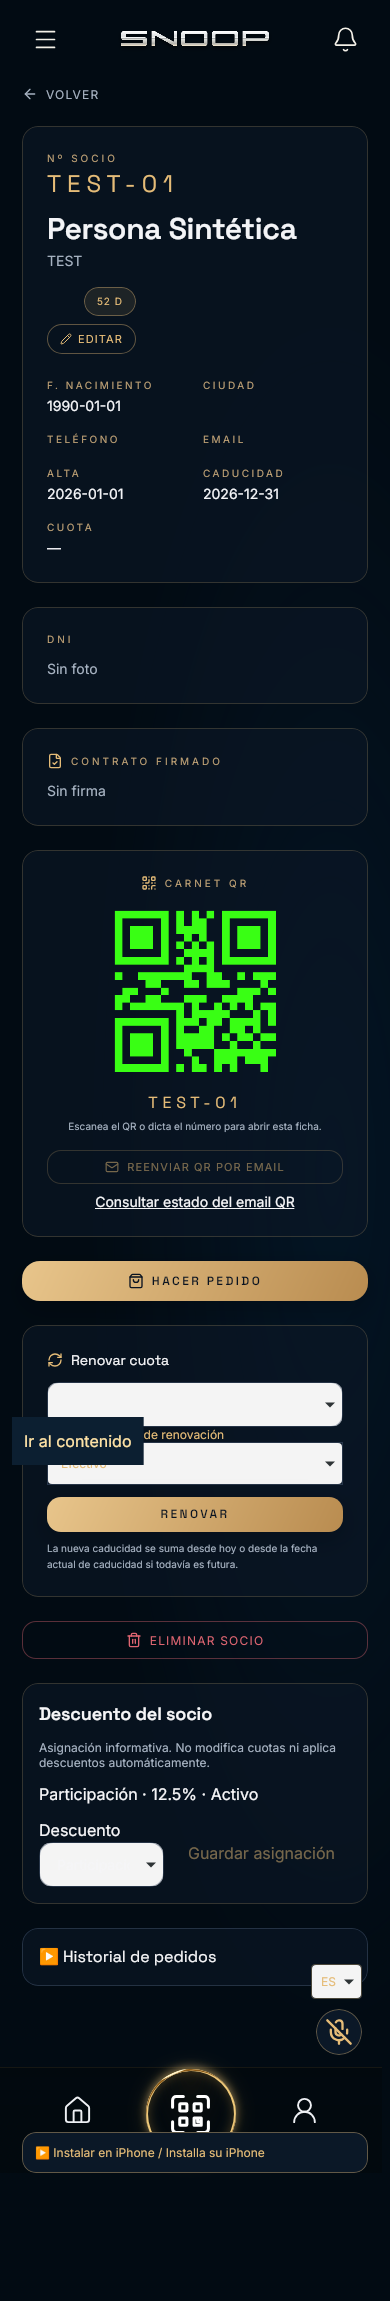
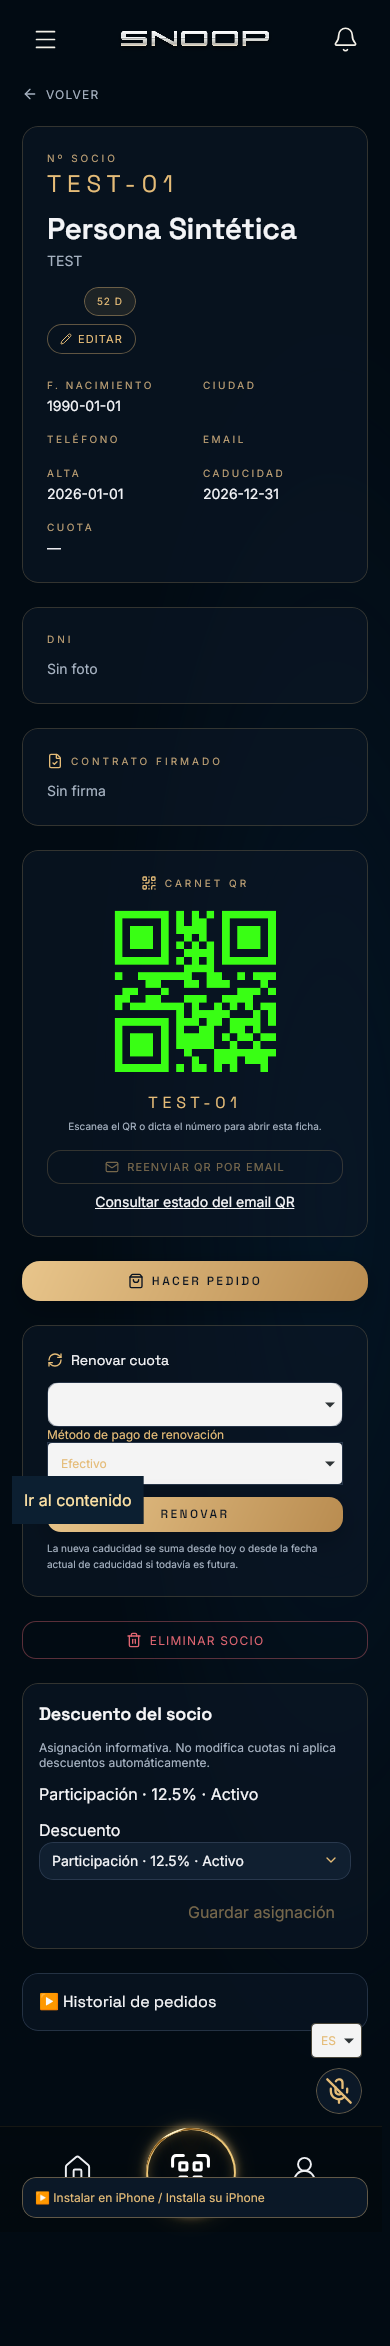
Keep member discount selector readable on mobile WebKit

diff --git a/src/components/MemberDiscounts.tsx b/src/components/MemberDiscounts.tsx
@@ -9,6 +9,7 @@ import {
   type MemberDiscount,
 } from "@/lib/member-discounts";
 import { toast } from "sonner";
+import { ChevronDown } from "lucide-react";
 
 const inputClass = "w-full bg-input border border-border rounded-lg px-3 py-2 text-sm";
 export function MemberDiscounts({ memberId }: { memberId?: string }) {
@@ -160,12 +161,12 @@ export function MemberDiscounts({ memberId }: { memberId?: string }) {
               : "Sin descuento asignado"}
           </p>
           {isAdmin && (
-            <div className="flex flex-wrap gap-2">
-              <label className="flex-1 min-w-0">
+            <div className="grid gap-3">
+              <label className="relative block min-w-0">
                 Descuento
                 <select
                   aria-label="Descuento asignado"
-                  className={inputClass}
+                  className={`${inputClass} appearance-none pr-9 text-foreground [color-scheme:dark]`}
                   value={selected}
                   disabled={busy}
                   onChange={(e) => setSelected(e.target.value)}
@@ -183,11 +184,12 @@ export function MemberDiscounts({ memberId }: { memberId?: string }) {
                     </option>
                   ))}
                 </select>
+                <ChevronDown className="pointer-events-none absolute right-3 bottom-3 h-4 w-4 text-neon" />
               </label>
               <button
                 disabled={busy || selected === assigned}
                 onClick={assign}
-                className="px-4 py-2 text-neon disabled:opacity-50"
+                className="justify-self-end px-4 py-2 text-neon disabled:opacity-50"
               >
                 Guardar asignación
               </button>
